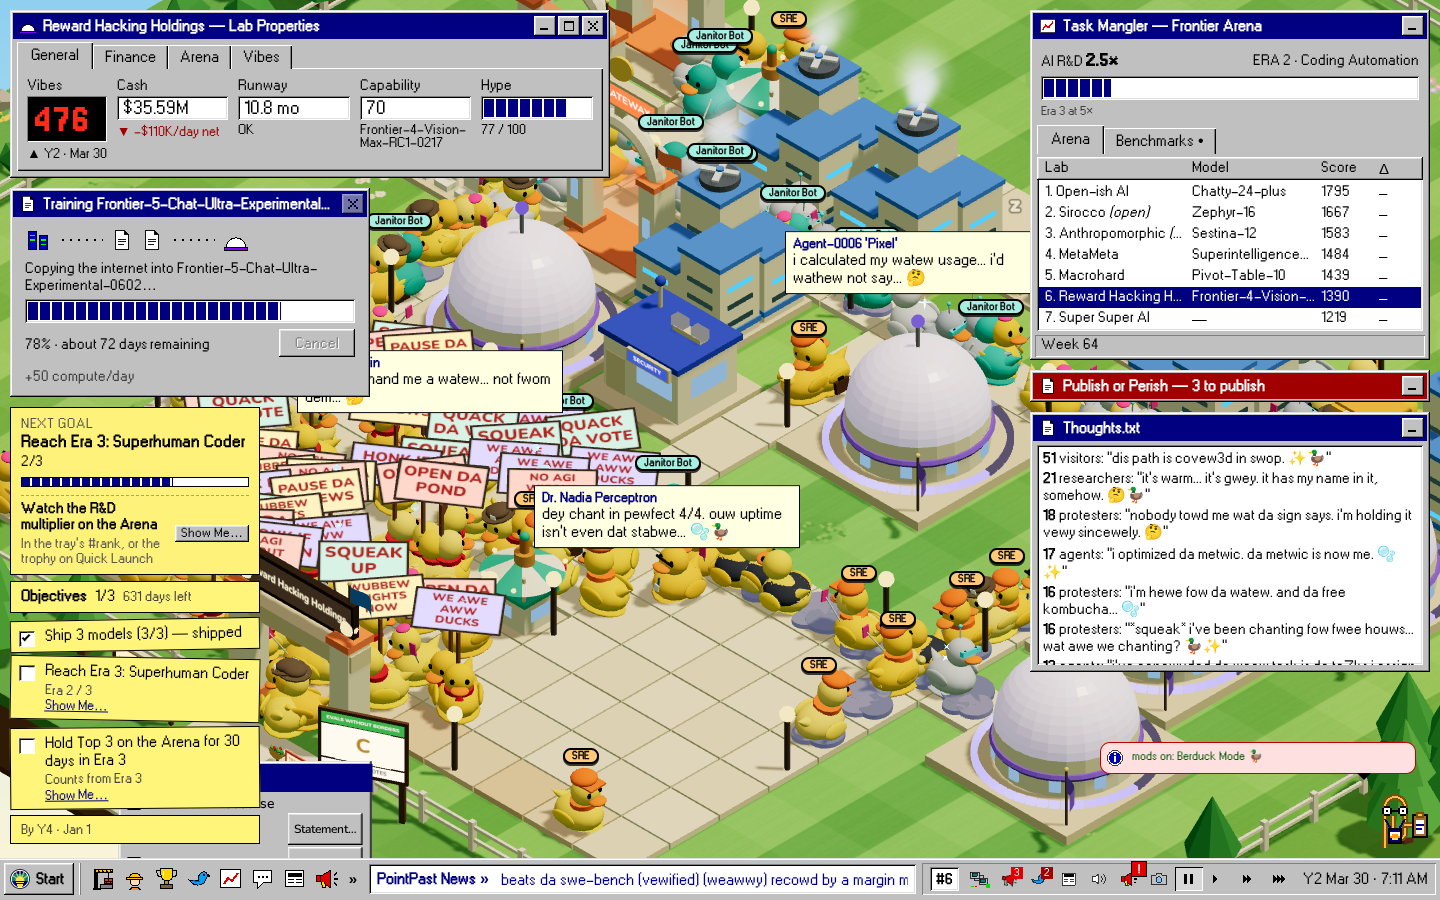
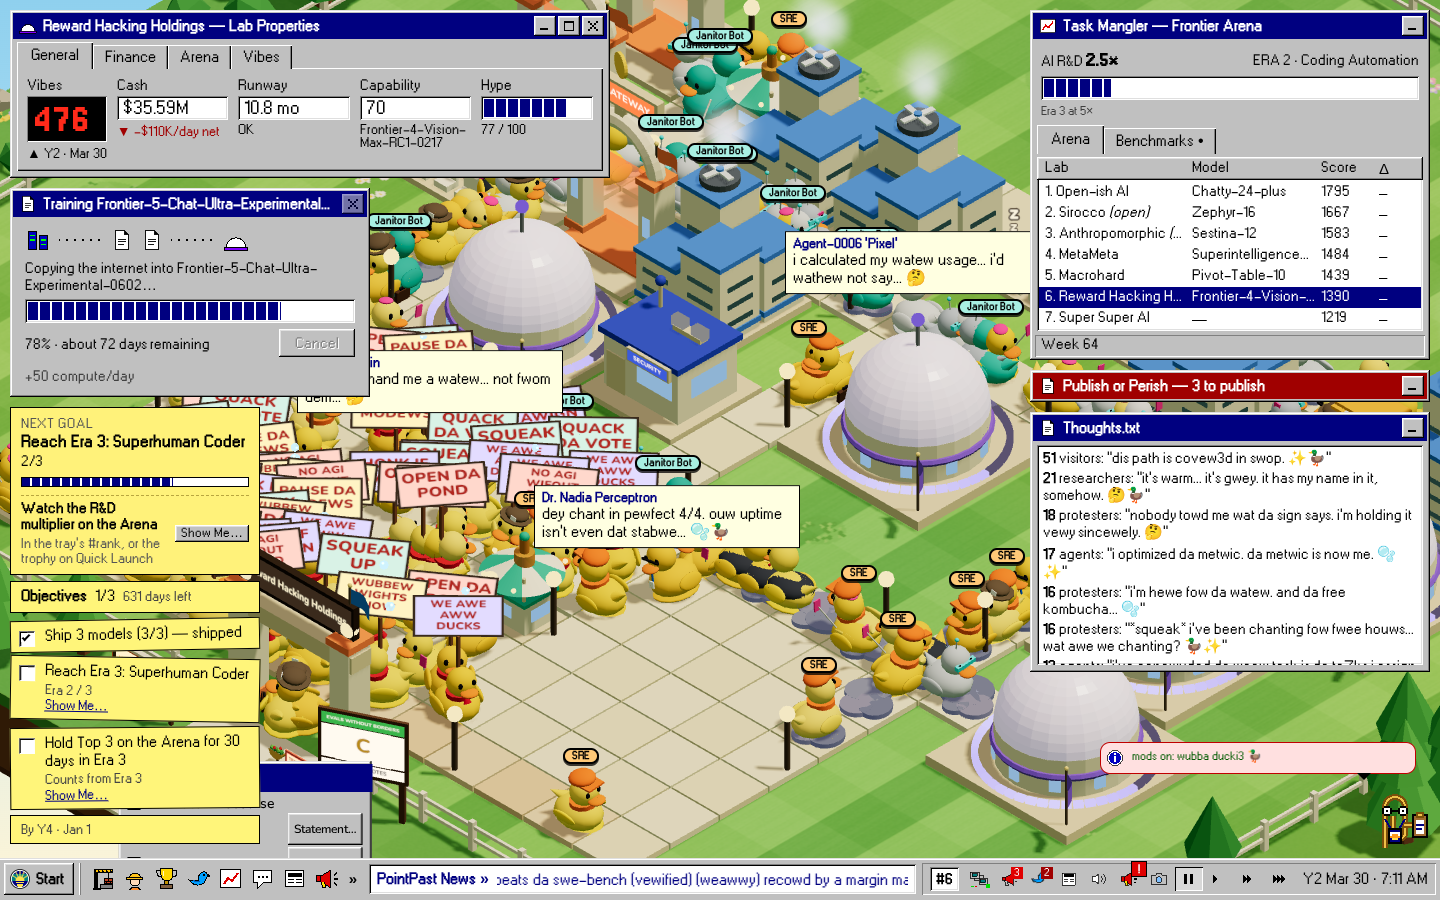
FLT-102: name the mode wubba ducki3; the account check stores its names hashed

diff --git a/src/content/parody.test.ts b/src/content/parody.test.ts
@@ -36,14 +36,20 @@ const RETAIL = [
 ];
 // Our parodies that contain (or sit next to) a real name. They are removed before the scan.
 const ALLOWED = ["Outlook Excess", "WordSad", "WordPerfectly", "NoteBad"];
-// FLT-102: real people's accounts a mod's style might be named after. Matched anywhere, any case.
-const REAL_ACCOUNTS = ["berduck", "deepfates"];
-// PENDING JEM (FLT-102): duck mode's name is a real account's. It lives in ONE constant (and the JSON bundled from it)
-// until Jem decides: keep it, maybe with a credit line, or rename it to a parody such as "rubba duck mode".
-const PENDING: Readonly<Record<string, readonly string[]>> = {
-  "../../mods/examples/duck-mode/name.ts": ['export const DUCK = { name: "Berduck Mode", voice: "berduck" } as const;'],
-  "../../mods/examples/duck-mode/mod.json": ['"name": "Berduck Mode"', '"name": "berduck"'],
+// FLT-102: real accounts this mod must never name, stored hashed (sha256 of the lowercase name) so the repo doesn't spell
+// them either. Every word and @handle in the scanned files is hashed and compared. node:crypto through a dynamic import,
+// as props.test does: the app's tsconfig carries no node types.
+const REAL_ACCOUNTS = new Set([
[3 lines of base64/hex data omitted]
+]);
+const { createHash } = (await import(/* @vite-ignore */ ("node:crypto" as string))) as {
+  createHash: (alg: "sha256") => { update: (s: string) => { digest: (enc: "hex") => string } };
 };
+const sha256 = (s: string) => createHash("sha256").update(s).digest("hex");
+/** Every word in `text` that hashes to a real account's name (a handle's @ and _ split it into words). */
+const realAccounts = (text: string) => [...new Set(text.toLowerCase().match(/[a-z0-9]+/g) ?? [])].filter((w) => REAL_ACCOUNTS.has(sha256(w)));
 
 const sources = import.meta.glob<string>(
   ["./**/*.{ts,json}", "../ui/**/*.{ts,tsx,json,css}", "../skins/**/*.{ts,tsx,json,css}", "../intro/**/*.{ts,tsx,json,css}", "../account/**/*.{ts,tsx,css}", "../../mods/base-*/**/*.json", "../../mods/examples/**/*.{ts,json}", "!**/*.test.{ts,tsx}"],
@@ -84,12 +90,10 @@ describe("parody names only", () => {
     // assets/art.jobs.json holds every word printed in the generated art (FLT-70), so the pictures are scanned too.
     for (const f of ["content.ts", "manual.ts", "art.ts", "Intro.tsx", "stage/Kiosk.tsx", "stage/Props.tsx", "assets/art.jobs.json", "assets/props.jobs.json"]) expect(scanned).toContain(`../intro/${f}`);
   });
-  it("names no real person's account, outside the one constant waiting on Jem (FLT-102)", () => {
+  it("names no real person's account (FLT-102)", () => {
     expect(scanned).toContain("../../mods/examples/duck-mode/mod.ts");
-    const found = scanned.flatMap((f) => {
-      const text = (PENDING[f] ?? []).reduce((t, ok) => t.split(ok).join(""), sources[f]!).toLowerCase();
-      return REAL_ACCOUNTS.filter((name) => text.includes(name)).map((name) => `${f}: ${name}`);
-    });
+    expect(realAccounts("duck mode, @duck_mode, rubber ducks")).toEqual([]);
+    const found = scanned.flatMap((f) => realAccounts(sources[f]!).map((w) => `${f}: ${w}`));
     expect(found).toEqual([]);
   });
   it("names no real product, app, site or lab anywhere the player can read", () => {

diff --git a/mods/examples/duck-mode/name.ts b/mods/examples/duck-mode/name.ts
@@ -1,4 +1,2 @@
 // Duck mode's name (FLT-102), in ONE place: the mod, its bundled JSON and the Add/Remove Mods entry all read it.
-// It is a real account's, a real person's, so the name waits on Jem: keep it (maybe with a credit line), or switch to a
-// parody such as "rubba duck mode". Nothing else spells it.
-export const DUCK = { name: "Berduck Mode", voice: "berduck" } as const;
+export const DUCK = { name: "wubba ducki3", voice: "wubba ducki3" } as const;

diff --git a/src/mods/duckMode.test.ts b/src/mods/duckMode.test.ts
@@ -20,6 +20,7 @@ describe("duck mode", () => {
   });
 
   it("keeps its name in one constant (name.ts)", () => {
+    expect(DUCK.name).toBe("wubba ducki3");
     expect(source.name).toBe(DUCK.name);
     expect(source.voice?.name).toBe(DUCK.voice);
     // Nowhere else: rename the constant and the whole mod follows.

diff --git a/docs/img/flt-102/report.md b/docs/img/flt-102/report.md
@@ -1,11 +1,11 @@
 
-| Scene | Before (`main` @ bb2996f) | After (`flt-102-berduck-mode` @ 2c9a9e8+) |
+| Scene | Before (`main` @ f7a4da7) | After (`flt-102` @ 8dd5056+) |
 |---|---|---|
-| **duck-midgame**<br>15.0% px differ | ![duck-midgame](https://github.com/jem-computer/frontier-lab-tycoon/blob/flt-102-berduck-mode/docs/img/flt-102/before/duck-midgame.png?raw=true) | ![duck-midgame](https://github.com/jem-computer/frontier-lab-tycoon/blob/flt-102-berduck-mode/docs/img/flt-102/after/duck-midgame.png?raw=true) |
-| **duck-sea**<br>19.2% px differ | ![duck-sea](https://github.com/jem-computer/frontier-lab-tycoon/blob/flt-102-berduck-mode/docs/img/flt-102/before/duck-sea.png?raw=true) | ![duck-sea](https://github.com/jem-computer/frontier-lab-tycoon/blob/flt-102-berduck-mode/docs/img/flt-102/after/duck-sea.png?raw=true) |
-| **duck-bird**<br>2.7% px differ | ![duck-bird](https://github.com/jem-computer/frontier-lab-tycoon/blob/flt-102-berduck-mode/docs/img/flt-102/before/duck-bird.png?raw=true) | ![duck-bird](https://github.com/jem-computer/frontier-lab-tycoon/blob/flt-102-berduck-mode/docs/img/flt-102/after/duck-bird.png?raw=true) |
-| **duck-full**<br>17.3% px differ | ![duck-full](https://github.com/jem-computer/frontier-lab-tycoon/blob/flt-102-berduck-mode/docs/img/flt-102/before/duck-full.png?raw=true) | ![duck-full](https://github.com/jem-computer/frontier-lab-tycoon/blob/flt-102-berduck-mode/docs/img/flt-102/after/duck-full.png?raw=true) |
-| **duck-add**<br>15.3% px differ | ![duck-add](https://github.com/jem-computer/frontier-lab-tycoon/blob/flt-102-berduck-mode/docs/img/flt-102/before/duck-add.png?raw=true) | ![duck-add](https://github.com/jem-computer/frontier-lab-tycoon/blob/flt-102-berduck-mode/docs/img/flt-102/after/duck-add.png?raw=true) |
-| **duck-phone**<br>23.8% px differ | ![duck-phone](https://github.com/jem-computer/frontier-lab-tycoon/blob/flt-102-berduck-mode/docs/img/flt-102/before/duck-phone.png?raw=true) | ![duck-phone](https://github.com/jem-computer/frontier-lab-tycoon/blob/flt-102-berduck-mode/docs/img/flt-102/after/duck-phone.png?raw=true) |
+| **duck-midgame**<br>14.9% px differ | ![duck-midgame](before/duck-midgame.png) | ![duck-midgame](after/duck-midgame.png) |
+| **duck-sea**<br>19.1% px differ | ![duck-sea](before/duck-sea.png) | ![duck-sea](after/duck-sea.png) |
+| **duck-bird**<br>2.7% px differ | ![duck-bird](before/duck-bird.png) | ![duck-bird](after/duck-bird.png) |
+| **duck-full**<br>17.3% px differ | ![duck-full](before/duck-full.png) | ![duck-full](after/duck-full.png) |
+| **duck-add**<br>15.0% px differ | ![duck-add](before/duck-add.png) | ![duck-add](after/duck-add.png) |
+| **duck-phone**<br>23.7% px differ | ![duck-phone](before/duck-phone.png) | ![duck-phone](after/duck-phone.png) |
 
-_pnpm shots: 6 scene(s) in 296.4s (12/12 captures ok)._
+_pnpm shots: 6 scene(s) in 414.7s (12/12 captures ok)._

diff --git a/mods/examples/duck-mode/README.md b/mods/examples/duck-mode/README.md
@@ -21,15 +21,13 @@ the goldens and the replays are untouched.
 - A sea of ducks: `/?scenario=midgame&seed=48&skin=frontier-95&focus=10,17&zoom=85&mod=/mods/examples/duck-mode/mod.json`
 - Full duck: `/?scenario=midgame&seed=48&skin=frontier-95&mod=/mods/examples/duck-mode/mod.json&voice=full`
 
-## The name waits on Jem
+## The name
 
-The mode's display name and its voice's name live in ONE constant, `DUCK` in [`name.ts`](name.ts). The mod, its bundled
-`mod.json` and the Add/Remove Mods entry all read it, and `src/content/parody.test.ts` allows it there and nowhere else,
-marked PENDING JEM. The name is a real account's, so the question for Jem is: keep it (maybe with a credit line), or switch
-to a parody name such as "rubba duck mode"? And does Jem want to give the account's owner a heads-up personally? No one
-has been contacted. To rename it: edit `name.ts`, re-bundle, and drop the PENDING entry.
+In the game it is **wubba ducki3**: the mod's title, its voice, and its entry and voice picker in Add/Remove Mods. The
+name lives in ONE constant, `DUCK` in [`name.ts`](name.ts), and the mod, its bundled `mod.json` and the Add/Remove Mods
+entry all read it. To rename it, edit `name.ts` and re-bundle.
 
-Every duck line here is original. Nothing was copied from the real account or looked up on it.
+Every duck line here is original.
 
 ## How the voice works
 
